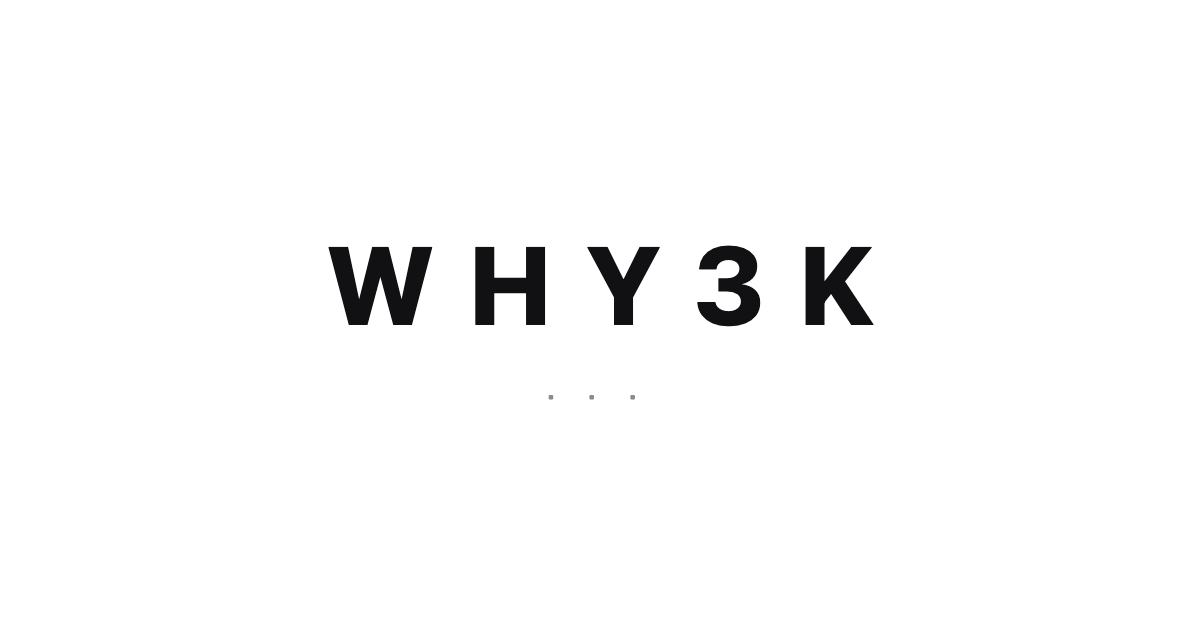
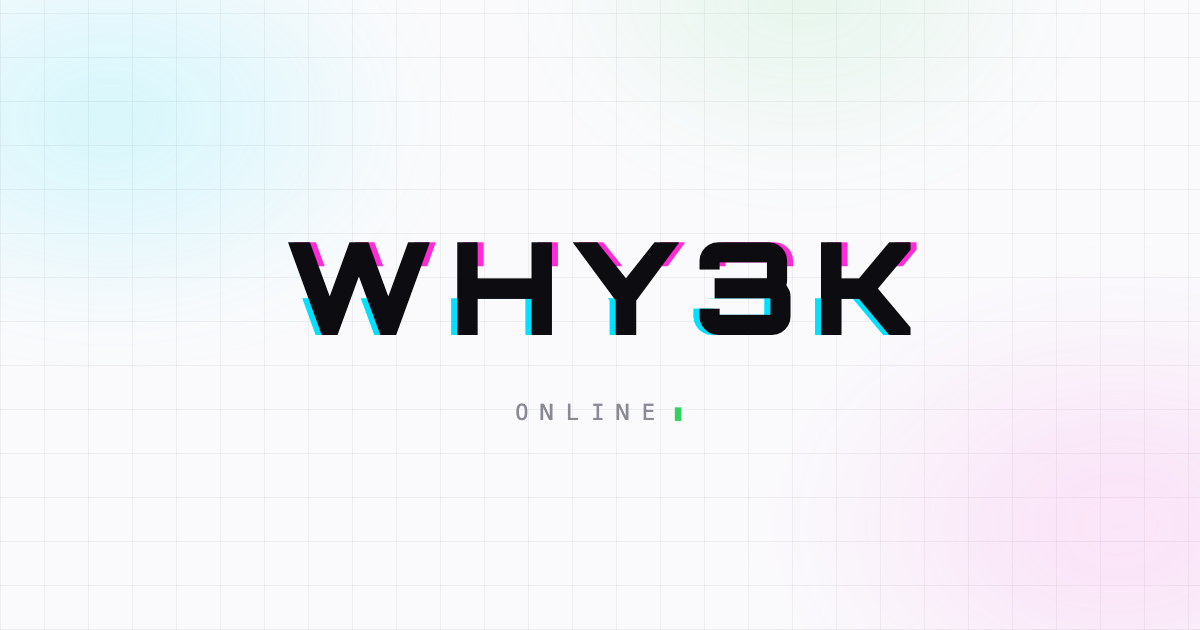
3000年代デザインに全面刷新（Orbitron・切り欠きボタン・グリッチ増量・背景演出）
- ワードマークを Orbitron 900 に、シアン/マゼンタのRGBずれグリッチを高頻度化
- ボタンを丸型→切り欠きコーナーのHUD型に、ホバーで白黒反転＋色収差
- 背景にグリッド＋スキャンライン＋漂うホログラム光（白の世界観は維持）
- 画面を横切るグリッチバー、ONLINEステータス（緑カーソル点滅）
- og:image も新デザインで作り直し

diff --git a/index.html b/index.html
@@ -14,39 +14,103 @@
 <meta property="og:image" content="https://why3k.github.io/assets/og.png">
 <meta name="twitter:card" content="summary_large_image">
 <link rel="icon" type="image/svg+xml" href="assets/favicon.svg">
+<link rel="preconnect" href="https://fonts.googleapis.com">
+<link rel="preconnect" href="https://fonts.gstatic.com" crossorigin>
+<link href="https://fonts.googleapis.com/css2?family=Orbitron:wght@700;800;900&family=Space+Grotesk:wght@500;600;700&display=swap" rel="stylesheet">
 <style>
   :root {
-    --bg: #ffffff;
-    --ink: #111114;
+    --paper: #fafafc;
+    --ink: #0d0d11;
     --ink-soft: #8a8a95;
-    --line: #e9e9ee;
-    --mono: "SFMono-Regular", ui-monospace, "SF Mono", Menlo, Consolas, monospace;
+    --line: #c9c9d2;
+    --cyan: #00e0ff;
+    --mag: #ff2bd6;
+    --grn: #33d15e;
+    --cut: 14px;
+    --mono: "SFMono-Regular", ui-monospace, Menlo, Consolas, monospace;
   }
   * { margin:0; padding:0; box-sizing:border-box; -webkit-tap-highlight-color:transparent; }
   :focus { outline:none; }
-  :focus-visible { outline:2px solid rgba(17,17,20,.4); outline-offset:3px; border-radius:10px; }
+  :focus-visible { outline:2px solid rgba(13,13,17,.5); outline-offset:3px; }
 
   html, body { height:100%; }
   body {
-    font-family: -apple-system, BlinkMacSystemFont, "Helvetica Neue",
-                 "Hiragino Kaku Gothic ProN", "Hiragino Sans", sans-serif;
-    background: var(--bg);
+    font-family: "Space Grotesk", -apple-system, "Helvetica Neue", sans-serif;
+    background: var(--paper);
     color: var(--ink);
     display: flex;
     flex-direction: column;
     align-items: center;
     -webkit-font-smoothing: antialiased;
+    overflow-x: hidden;
+    position: relative;
+  }
+
+  /* ---- 背景レイヤー1：グリッド＋スキャンライン ---- */
+  body::before {
+    content: "";
+    position: fixed; inset: 0;
+    z-index: -1;
+    background:
+      repeating-linear-gradient(0deg,  rgba(13,13,17,.045) 0 1px, transparent 1px 44px),
+      repeating-linear-gradient(90deg, rgba(13,13,17,.045) 0 1px, transparent 1px 44px),
+      repeating-linear-gradient(0deg,  rgba(13,13,17,.012) 0 1px, transparent 1px 4px);
+    pointer-events: none;
+  }
+  /* ---- 背景レイヤー2：漂うホログラム光 ---- */
+  body::after {
+    content: "";
+    position: fixed; inset: -20%;
+    z-index: -2;
+    background:
+      radial-gradient(620px 420px at 18% 28%, rgba(0,224,255,.14), transparent 62%),
+      radial-gradient(700px 520px at 84% 72%, rgba(255,43,214,.11), transparent 62%),
+      radial-gradient(520px 420px at 62% 6%,  rgba(51,209,94,.10),  transparent 62%);
+    filter: blur(46px);
+    pointer-events: none;
+  }
+  @media (prefers-reduced-motion: no-preference) {
+    body::after { animation: drift 16s ease-in-out infinite alternate; }
+  }
+  @keyframes drift {
+    0%   { transform: translate(0, 0) scale(1); }
+    100% { transform: translate(-3%, 2.5%) scale(1.06); }
+  }
+
+  /* ---- 画面を横切るグリッチバー ---- */
+  .glitch-bar {
+    position: fixed;
+    left: 0; right: 0;
+    height: 26px;
+    z-index: 3;
+    background: rgba(13,13,17,.05);
+    box-shadow: 0 0 0 1px rgba(0,224,255,.08);
+    opacity: 0;
+    pointer-events: none;
+    mix-blend-mode: multiply;
+  }
+  @media (prefers-reduced-motion: no-preference) {
+    .glitch-bar { animation: bar 9s infinite steps(1); }
+    .glitch-bar.b2 { animation-delay: 4.7s; height: 8px; }
+  }
+  @keyframes bar {
+    0%, 87.9%, 90.1%, 100% { opacity: 0; }
+    88%   { opacity: 1; top: 22%; transform: translateX(-8px); }
+    88.7% { opacity: 1; top: 61%; transform: translateX(10px); }
+    89.4% { opacity: 1; top: 43%; transform: translateX(-4px); }
   }
 
   main {
     flex: 1;
     width: 100%;
-    max-width: 460px;
+    max-width: 480px;
     padding: 0 28px;
     display: flex;
     flex-direction: column;
     justify-content: center;
-    gap: 52px;
+    gap: 56px;
+    position: relative;
+    z-index: 1;
   }
 
   /* ---- ワードマーク ---- */
@@ -54,13 +118,14 @@
   .wordmark {
     position: relative;
     display: inline-block;
-    font-size: clamp(44px, 12vw, 64px);
-    font-weight: 800;
-    letter-spacing: .32em;
-    margin-right: -.32em; /* 字間ぶんの右余白を相殺して中央に */
+    font-family: "Orbitron", sans-serif;
+    font-weight: 900;
+    font-size: clamp(42px, 12vw, 76px);
+    letter-spacing: .12em;
+    margin-right: -.12em;
     line-height: 1;
+    color: var(--ink);
   }
-  /* グリッチ（モノクロ・時々だけ、ほんの一瞬） */
   .wordmark::before,
   .wordmark::after {
     content: attr(data-text);
@@ -70,123 +135,180 @@
     opacity: 0;
     pointer-events: none;
   }
+  .wordmark::before { color: var(--mag); z-index: -1; }
+  .wordmark::after  { color: var(--cyan); z-index: -1; }
   @media (prefers-reduced-motion: no-preference) {
-    .wordmark::before { animation: glitchA 7s infinite steps(1); }
-    .wordmark::after  { animation: glitchB 7s infinite steps(1); }
+    .wordmark          { animation: jolt 3.4s infinite steps(1); }
+    .wordmark::before  { animation: ghostM 3.4s infinite steps(1); }
+    .wordmark::after   { animation: ghostC 3.4s infinite steps(1); }
   }
-  @keyframes glitchA {
-    0%, 91.9%, 94.1%, 100% { opacity: 0; }
-    92%   { opacity:.55; transform: translate(3px, 0);  clip-path: inset(12% 0 62% 0); }
-    92.7% { opacity:.55; transform: translate(-2px, 0); clip-path: inset(55% 0 18% 0); }
-    93.4% { opacity:.55; transform: translate(2px, 0);  clip-path: inset(30% 0 44% 0); }
+  /* 本体がときどき歪む */
+  @keyframes jolt {
+    0%, 88.9%, 93.1%, 100% { transform: none; }
+    89%   { transform: skewX(-6deg) translateX(2px); }
+    89.6% { transform: skewX(4deg); }
+    90.2% { transform: none; }
+    91.5% { transform: translateX(-2px); }
+    92.1% { transform: none; }
   }
-  @keyframes glitchB {
-    0%, 91.9%, 94.1%, 100% { opacity: 0; }
-    92.3% { opacity:.4; transform: translate(-3px, 0); clip-path: inset(66% 0 8% 0); }
-    93%   { opacity:.4; transform: translate(2px, 0);  clip-path: inset(4% 0 78% 0); }
-    93.7% { opacity:.4; transform: translate(-2px, 0); clip-path: inset(40% 0 36% 0); }
+  /* マゼンタのゴースト */
+  @keyframes ghostM {
+    0%, 88.9%, 93.6%, 100% { opacity: 0; }
+    89%   { opacity:.85; transform: translate(4px, 0);   clip-path: inset(8% 0 64% 0); }
+    89.8% { opacity:.85; transform: translate(-3px, 1px); clip-path: inset(52% 0 22% 0); }
+    90.6% { opacity:.6;  transform: translate(2px, -1px); clip-path: inset(28% 0 48% 0); }
+    91.6% { opacity:.85; transform: translate(-4px, 0);  clip-path: inset(70% 0 6% 0); }
+    92.4% { opacity:.5;  transform: translate(3px, 0);   clip-path: inset(14% 0 70% 0); }
   }
-  .mark .dots {
-    margin-top: 18px;
+  /* シアンのゴースト */
+  @keyframes ghostC {
+    0%, 88.9%, 93.6%, 100% { opacity: 0; }
+    89.3% { opacity:.85; transform: translate(-4px, 0);  clip-path: inset(60% 0 14% 0); }
+    90.1% { opacity:.85; transform: translate(3px, -1px); clip-path: inset(4% 0 76% 0); }
+    90.9% { opacity:.6;  transform: translate(-2px, 1px); clip-path: inset(38% 0 40% 0); }
+    91.9% { opacity:.85; transform: translate(4px, 0);   clip-path: inset(22% 0 58% 0); }
+    92.7% { opacity:.5;  transform: translate(-3px, 0);  clip-path: inset(80% 0 2% 0); }
+  }
+
+  .status {
+    margin-top: 20px;
     font-family: var(--mono);
-    font-size: 13px;
-    letter-spacing: .6em;
+    font-size: 12px;
+    letter-spacing: .5em;
     color: var(--ink-soft);
+    text-transform: uppercase;
   }
+  .status::after {
+    content: "▮";
+    letter-spacing: 0;
+    margin-left: .2em;
+    color: var(--grn);
+  }
+  @media (prefers-reduced-motion: no-preference) {
+    .status::after { animation: blink 1.1s steps(2) infinite; }
+  }
+  @keyframes blink { 50% { opacity: 0; } }
 
   /* ---- リンク ---- */
   .links { display: flex; flex-direction: column; gap: 12px; }
   .link {
-    display: flex;
-    align-items: center;
-    justify-content: center;
-    gap: 10px;
-    height: 56px;
-    border: 1px solid var(--line);
-    border-radius: 999px;
+    display: block;
+    padding: 1px;
+    background: var(--line);
+    clip-path: polygon(
+      var(--cut) 0, 100% 0,
+      100% calc(100% - var(--cut)),
+      calc(100% - var(--cut)) 100%,
+      0 100%, 0 var(--cut)
+    );
     text-decoration: none;
     color: var(--ink);
-    font-size: 15px;
-    font-weight: 600;
-    letter-spacing: .12em;
-    transition: transform .14s ease, border-color .15s, box-shadow .15s, background .15s;
-    background: var(--bg);
+    transition: transform .13s ease, background .15s;
   }
-  .link:hover {
-    transform: translateY(-2px);
-    border-color: #d2d2da;
-    box-shadow: 0 14px 30px -18px rgba(0,0,0,.22);
+  .link .in {
+    display: flex;
+    align-items: center;
+    gap: 14px;
+    height: 58px;
+    padding: 0 24px;
+    background: rgba(255,255,255,.92);
+    clip-path: polygon(
+      var(--cut) 0, 100% 0,
+      100% calc(100% - var(--cut)),
+      calc(100% - var(--cut)) 100%,
+      0 100%, 0 var(--cut)
+    );
+    font-size: 14px;
+    font-weight: 700;
+    letter-spacing: .22em;
+    text-transform: uppercase;
+    transition: background .15s, color .15s;
   }
-  .link:active { transform: translateY(0) scale(.985); }
+  .link .idx {
+    font-family: var(--mono);
+    font-size: 10px;
+    letter-spacing: .15em;
+    color: var(--ink-soft);
+  }
+  .link .arrow { margin-left: auto; font-family: var(--mono); font-size: 12px; color: var(--ink-soft); }
 
-  /* PLUGINS＝主役リンク */
-  .link.primary {
-    background: var(--ink);
-    color: #fff;
-    border-color: var(--ink);
-  }
-  .link.primary:hover { box-shadow: 0 16px 34px -16px rgba(0,0,0,.4); }
+  .link:hover { transform: translateY(-2px); background: var(--ink); }
+  .link:hover .in { background: var(--ink); color: #fff; text-shadow: 2px 0 var(--cyan), -2px 0 var(--mag); }
+  .link:hover .idx, .link:hover .arrow { color: rgba(255,255,255,.6); }
+  .link:active { transform: translateY(0) scale(.99); }
+
+  /* PLUGINS＝主役 */
+  .link.primary { background: var(--ink); }
+  .link.primary .in { background: var(--ink); color: #fff; }
+  .link.primary .idx { color: rgba(255,255,255,.5); }
   .link.primary .tag {
+    margin-left: auto;
     font-family: var(--mono);
     font-size: 10px;
-    letter-spacing: .2em;
-    color: #33d15e;
+    letter-spacing: .25em;
+    color: var(--grn);
   }
+  .link.primary:hover .in { background: #fff; color: var(--ink); text-shadow: 2px 0 var(--mag), -2px 0 var(--cyan); }
+  .link.primary:hover .tag { color: #1f8f42; }
 
-  /* URL未設定（準備中）リンク */
-  .link.soon {
-    pointer-events: none;
-    color: #c3c3cc;
-    border-color: #f0f0f4;
-  }
+  /* URL未設定（準備中） */
+  .link.soon { pointer-events: none; background: #e8e8ee; }
+  .link.soon .in { background: rgba(252,252,254,.9); color: #c3c3cc; }
+  .link.soon .idx { color: #d3d3db; }
   .link.soon .soon-tag {
+    margin-left: auto;
     font-family: var(--mono);
     font-size: 10px;
-    letter-spacing: .18em;
+    letter-spacing: .22em;
     color: #d3d3db;
   }
 
   footer {
     padding: 28px 0 34px;
-    font-size: 12px;
-    letter-spacing: .18em;
+    font-size: 11px;
+    letter-spacing: .3em;
     color: var(--ink-soft);
     font-family: var(--mono);
+    position: relative;
+    z-index: 1;
   }
 </style>
 </head>
 <body>
 
+<div class="glitch-bar" aria-hidden="true"></div>
+<div class="glitch-bar b2" aria-hidden="true"></div>
+
 <main>
   <div class="mark">
     <h1 class="wordmark" data-text="WHY3K">WHY3K</h1>
-    <div class="dots" aria-hidden="true">・・・</div>
+    <div class="status">Online</div>
   </div>
 
   <nav class="links" aria-label="WHY3K links">
-    <!-- ↓ URLが決まったら href="#" を差し替えて class="link soon" → class="link" にする -->
+    <!-- ↓ URLが決まったら href="#" を差し替えて class="link soon" → class="link" にし、SOONタグを arrow に変える -->
 
     <!-- TODO: X のURL -->
-    <a class="link soon" href="#" aria-disabled="true">X <span class="soon-tag">SOON</span></a>
+    <a class="link soon" href="#" aria-disabled="true"><span class="in"><span class="idx">01</span> X <span class="soon-tag">SOON</span></span></a>
 
     <!-- TODO: Instagram のURL -->
-    <a class="link soon" href="#" aria-disabled="true">Instagram <span class="soon-tag">SOON</span></a>
+    <a class="link soon" href="#" aria-disabled="true"><span class="in"><span class="idx">02</span> Instagram <span class="soon-tag">SOON</span></span></a>
 
     <!-- TODO: TikTok のURL -->
-    <a class="link soon" href="#" aria-disabled="true">TikTok <span class="soon-tag">SOON</span></a>
+    <a class="link soon" href="#" aria-disabled="true"><span class="in"><span class="idx">03</span> TikTok <span class="soon-tag">SOON</span></span></a>
 
     <!-- TODO: Spotify（アーティストページ）のURL -->
-    <a class="link soon" href="#" aria-disabled="true">Spotify <span class="soon-tag">SOON</span></a>
+    <a class="link soon" href="#" aria-disabled="true"><span class="in"><span class="idx">04</span> Spotify <span class="soon-tag">SOON</span></span></a>
 
     <!-- TODO: YouTube のURL -->
-    <a class="link soon" href="#" aria-disabled="true">YouTube <span class="soon-tag">SOON</span></a>
+    <a class="link soon" href="#" aria-disabled="true"><span class="in"><span class="idx">05</span> YouTube <span class="soon-tag">SOON</span></span></a>
 
     <!-- TODO: SoundCloud のURL -->
-    <a class="link soon" href="#" aria-disabled="true">SoundCloud <span class="soon-tag">SOON</span></a>
+    <a class="link soon" href="#" aria-disabled="true"><span class="in"><span class="idx">06</span> SoundCloud <span class="soon-tag">SOON</span></span></a>
 
     <!-- PLUGINS（稼働中） -->
     <a class="link primary" href="https://why3k.github.io/why3k-plugins/">
-      WHY3K PLUGINS <span class="tag">FREE</span>
+      <span class="in"><span class="idx">07</span> WHY3K PLUGINS <span class="tag">FREE</span></span>
     </a>
   </nav>
 </main>